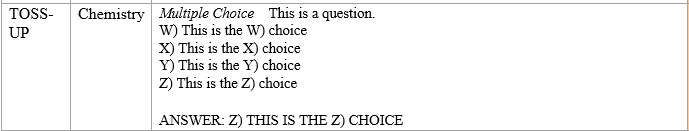
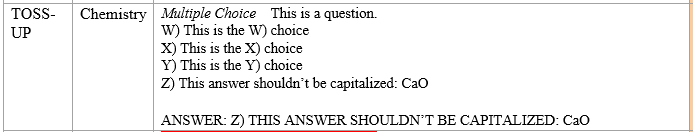
update readme examples

diff --git a/README.md b/README.md
@@ -2,7 +2,7 @@
 
 ## A command-line utility for formatting Science Bowl questions
 
-Version 0.3
+Version 0.3 - Updated for 2023 NSB
 
 The NSB Toolbox contains a set of tools to make it easier to write and edit Science Bowl questions. It ensures that questions are compliant with the official Science Bowl format, allowing writers to focus on just writing the questions. It also highlights common formatting errors for editors, allowing them to focus on checking content without worrying that they're missing formatting issues here and there.
 
@@ -88,7 +88,7 @@ Finally, ```nsb format``` will automatically correct minor errors in question st
 
 ![Before Multiple Choice Correction](/docs/images/before_mc_correct.png)
 
-The mislabeled choices will be automatically corrected:
+The mislabeled choices will be automatically corrected. Note that an answer line that has been explicitly given will not be auto-capitalized:
 
 ![After Multiple Choice Correction](/docs/images/after_mc_correct.png)
 
